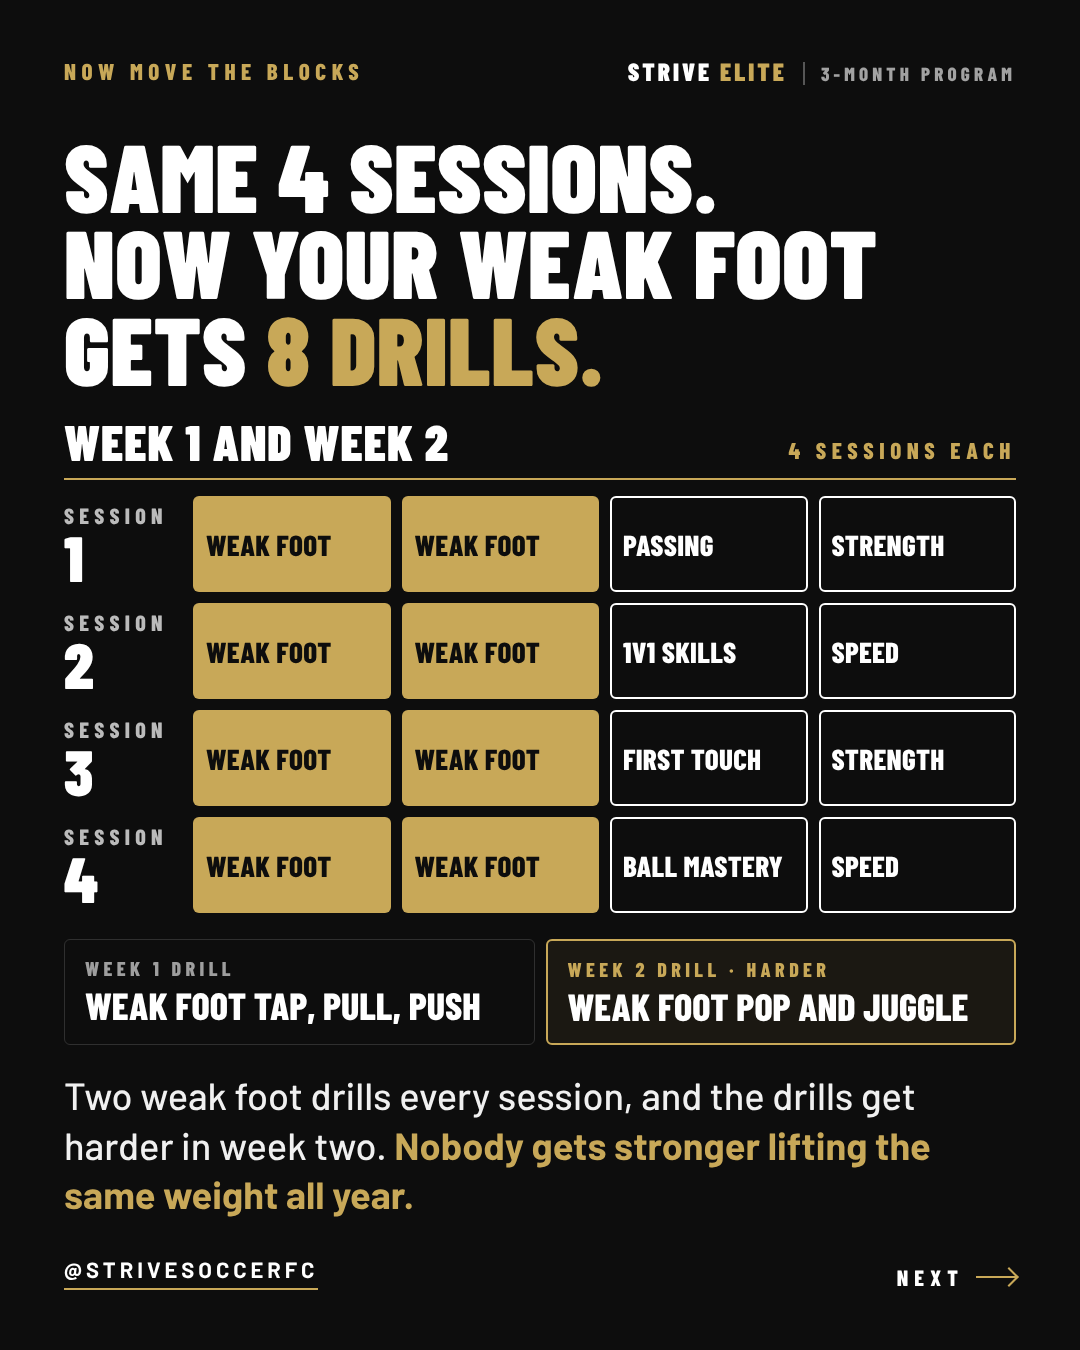
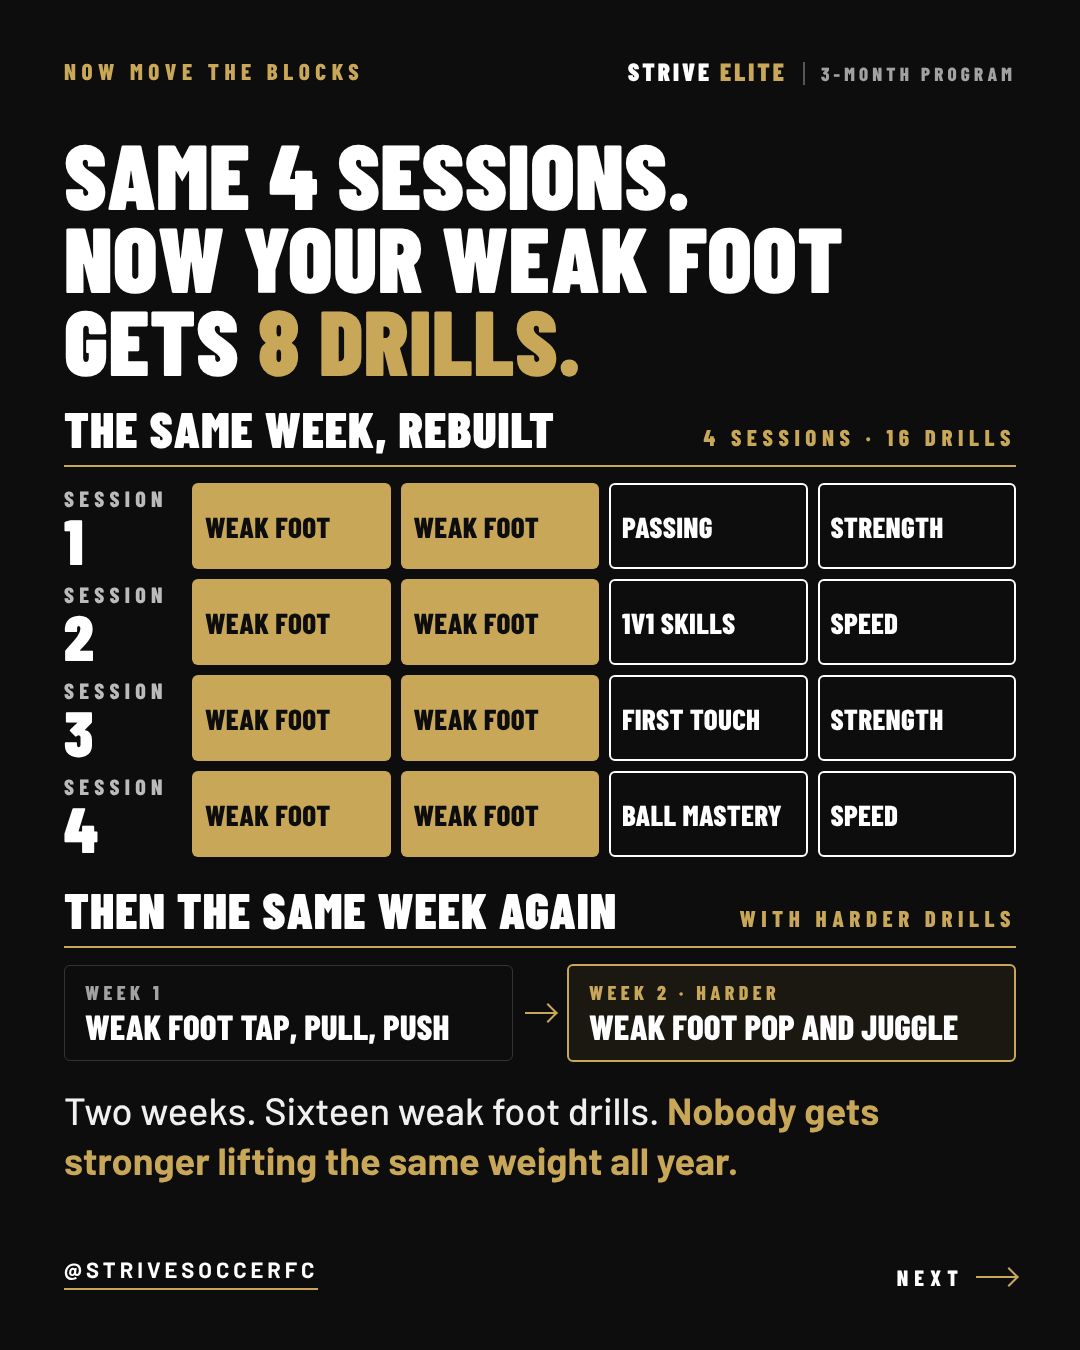
Compact carousel: slide 3 shows one rebuilt week, then the same week again harder
Claude-Session: https://claude.ai/code/session_011JsCTTjCbUkHbTuWTKQSXJ

Changed region(s): [[0.0611, 0.0933, 0.9472, 0.9022], [0.9167, 0.56, 0.9472, 0.6222], [0.9167, 0.4044, 0.9472, 0.4667]]

diff --git a/marketing/program/one-thing-carousel-4/03-eight.html b/marketing/program/one-thing-carousel-4/03-eight.html
@@ -1,20 +1,24 @@
 <!doctype html><meta charset="utf-8"><link rel="stylesheet" href="../../covers/strive-elite-meeting/fonts.css"><link rel="stylesheet" href="style.css"><title>Now your weak foot gets 8 drills</title>
-<style>h1{font-size:96px}h1 span{white-space:nowrap}.sched{margin-top:28px}.tt{gap:11px}.tr{grid-template-columns:118px repeat(4,1fr);gap:11px}.bk{height:96px;font-size:29px;letter-spacing:.01em;padding:0 13px}.bk.w{padding:0 11px}
-.hr{margin-top:26px;display:grid;grid-template-columns:1fr 1fr;gap:11px}
-.hr .wk{border:1px solid rgba(255,255,255,.14);border-radius:6px;padding:16px 20px 18px}
+<style>h1{font-size:92px}h1 span{white-space:nowrap}.sched{margin-top:26px}.tt{gap:10px}.tr{grid-template-columns:118px repeat(4,1fr);gap:10px}.bk{height:86px;font-size:29px;letter-spacing:.01em;padding:0 13px}.bk.w{padding:0 11px}
+.s2{margin-top:30px}
+.hr{display:grid;grid-template-columns:1fr 54px 1fr;align-items:center}
+.hr .wk{border:1px solid rgba(255,255,255,.16);border-radius:6px;padding:14px 20px 16px}
 .hr .wk.on{border:2.5px solid #c8a858;background:rgba(200,168,88,.08)}
-.hr small{display:block;font-family:'Barlow Condensed';font-weight:800;font-size:20px;letter-spacing:.22em;text-transform:uppercase;color:rgba(255,255,255,.6)}
+.hr small{display:block;font-family:'Barlow Condensed';font-weight:800;font-size:20px;letter-spacing:.22em;text-transform:uppercase;color:rgba(255,255,255,.62)}
 .hr .on small{color:#c8a858}
-.hr b{display:block;margin-top:6px;font-family:'Barlow Condensed';font-weight:800;font-size:38px;line-height:1;text-transform:uppercase;color:#fff}
-.p{margin-top:26px;font-size:38px}</style>
+.hr b{display:block;margin-top:5px;font-family:'Barlow Condensed';font-weight:800;font-size:35px;line-height:1;text-transform:uppercase;color:#fff;white-space:nowrap}
+.hr .ar{justify-self:center;width:30px;height:2px;background:#c8a858;position:relative}
+.hr .ar:after{content:"";position:absolute;right:0;top:-6px;width:12px;height:12px;border-top:2px solid #c8a858;border-right:2px solid #c8a858;transform:rotate(45deg)}
+.p{margin-top:24px;font-size:38px}</style>
 <div class="top"><div class="step">Now move the blocks</div><div class="wm">Strive <span>Elite</span><em>3-month program</em></div></div>
 <div class="pad"><h1>Same 4 sessions.<br>Now your weak foot<br>gets <span>8 drills.</span></h1>
-<div class="sched"><div class="hd"><b>Week 1 and week 2</b><span>4 sessions each</span></div><div class="tt">
+<div class="sched"><div class="hd"><b>The same week, rebuilt</b><span>4 sessions &middot; 16 drills</span></div><div class="tt">
 <div class="tr"><div class="lb">Session<b>1</b></div><div class="bk g">Weak foot</div><div class="bk g">Weak foot</div><div class="bk w">Passing</div><div class="bk w">Strength</div></div>
 <div class="tr"><div class="lb">Session<b>2</b></div><div class="bk g">Weak foot</div><div class="bk g">Weak foot</div><div class="bk w">1v1 skills</div><div class="bk w">Speed</div></div>
 <div class="tr"><div class="lb">Session<b>3</b></div><div class="bk g">Weak foot</div><div class="bk g">Weak foot</div><div class="bk w">First touch</div><div class="bk w">Strength</div></div>
 <div class="tr"><div class="lb">Session<b>4</b></div><div class="bk g">Weak foot</div><div class="bk g">Weak foot</div><div class="bk w">Ball mastery</div><div class="bk w">Speed</div></div>
 </div></div>
-<div class="hr"><div class="wk"><small>Week 1 drill</small><b>Weak foot tap, pull, push</b></div><div class="wk on"><small>Week 2 drill &middot; harder</small><b>Weak foot pop and juggle</b></div></div>
-<p class="p">Two weak foot drills every session, and the drills get harder in week two. <b>Nobody gets stronger lifting the same weight all year.</b></p></div>
+<div class="sched s2"><div class="hd"><b>Then the same week again</b><span>With harder drills</span></div>
+<div class="hr"><div class="wk"><small>Week 1</small><b>Weak foot tap, pull, push</b></div><div class="ar"></div><div class="wk on"><small>Week 2 &middot; harder</small><b>Weak foot pop and juggle</b></div></div></div>
+<p class="p">Two weeks. Sixteen weak foot drills. <b>Nobody gets stronger lifting the same weight all year.</b></p></div>
 <div class="handle">@strivesoccerfc</div><div class="swipe">Next <i></i></div>

diff --git a/CLAUDE.md b/CLAUDE.md
@@ -4046,6 +4046,7 @@ commit.
       THEN (Coach Yinka: "Amazing just remove the 30 minutes part and see if you can fit in the phonographic visual of the app if possble"; read as the phone graphic of the app): compact cut slide 6 rebuilt. The phone is back on the right with the app's session screen (plyo warm-up, Speed: Kneel and drive and both strength finishers lit, the three skill drills dimmed), and the copy runs down the left: "SPEED, STRENGTH AND YOUR GAMES DON'T WAIT THEIR TURN.", then Every session / Every Sunday / Every month. The 1:1 call line is "One on one with your coach. Every minute is about your game."; "30 minutes" is gone there and from the twelve-slide version's slide 11 card. The Film Room and check-in cards from the app are not on the compact cut (one phone fits; it shows the session). Sent, not posted.
       THEN Nov 12 2026 (Coach Yinka: "Instead of every minute about your game, say deep mentorship to push you forward"): the 1:1 call line on compact cut slide 6 is "One on one with your coach. Deep mentorship to push you forward." (his words); the twelve-slide version's call card on slide 11 carries the same line. Both re-rendered; slide 6 sent. Not posted.
       THEN Nov 12 2026 (Coach Yinka: "Okay send final"): THE FINAL COMPACT CAROUSEL SENT, seven slides re-rendered from source in posting order (marketing/program/one-thing-carousel-4/): cover, you know this week, same 4 sessions now 8 drills, his story, more than one thing to fix, speed strength and your games (the app phone, "Deep mentorship to push you forward"), close; with the caption in the README. NOT POSTED. Still his: "30 day" versus the 3-month program on the slides; the slides show 4 drills and two strength finishers a session where the app builds 3 and 1; Carla's ELITE reply should expect "the one thing holding you back"; it speaks to the player; no price or guarantee on it by design.
+      THEN Nov 12 2026 (Coach Yinka, with a screenshot of slide 3 in the Instagram editor: "the week one and week 2 doesn't exactly click for the viewer in this slide let's make adjustments"): the cause was one grid of four sessions sitting under the header "Week 1 and week 2, 4 sessions each", so one week was labelled as two. COMPACT CUT SLIDE 3 REBUILT in two steps: the grid is ONE week, header "THE SAME WEEK, REBUILT / 4 sessions, 16 drills" (the mirror of slide 2's "That week, written down / 4 sessions, 16 drills", so the two slides read as before and after); under it a second header "THEN THE SAME WEEK AGAIN / With harder drills" over Week 1 "Weak foot tap, pull, push", an arrow, Week 2, harder, "Weak foot pop and juggle"; closing line "Two weeks. Sixteen weak foot drills. Nobody gets stronger lifting the same weight all year." (8 a week for two weeks). Headline unchanged. Sent, not posted.
 
 ## Skills (use them without being asked)
 

diff --git a/marketing/program/one-thing-carousel-4/README.md b/marketing/program/one-thing-carousel-4/README.md
@@ -18,11 +18,11 @@ Same look, same approved lines, merged. Render: `node render.mjs 02-your-week.ht
    DRILLS IN 4 SESSIONS. / That's not training your weak foot. That's visiting
    it.
 3. `03-eight` (was slides 5 and 6). SAME 4 SESSIONS. NOW YOUR WEAK FOOT GETS 8
-   DRILLS. / WEEK 1 AND WEEK 2, 4 sessions each (the grid, eight gold, eight
-   white) / Week 1 drill: Weak foot tap, pull, push. Week 2 drill, harder: Weak
-   foot pop and juggle. / Two weak foot drills every session, and the drills
-   get harder in week two. Nobody gets stronger lifting the same weight all
-   year.
+   DRILLS. / THE SAME WEEK, REBUILT, 4 sessions, 16 drills (the grid, eight
+   gold, eight white; it mirrors slide 2's "That week, written down") / THEN
+   THE SAME WEEK AGAIN, with harder drills: Week 1 Weak foot tap, pull, push,
+   then Week 2, harder, Weak foot pop and juggle. / Two weeks. Sixteen weak
+   foot drills. Nobody gets stronger lifting the same weight all year.
 4. `04-story` (unchanged). IT'S HOW I CAME BACK. Five months out with a hip
    tear, one main thing at a time, the best form of my life.
 5. `05-six` (unchanged; it also answers "so it's only weak foot for two
